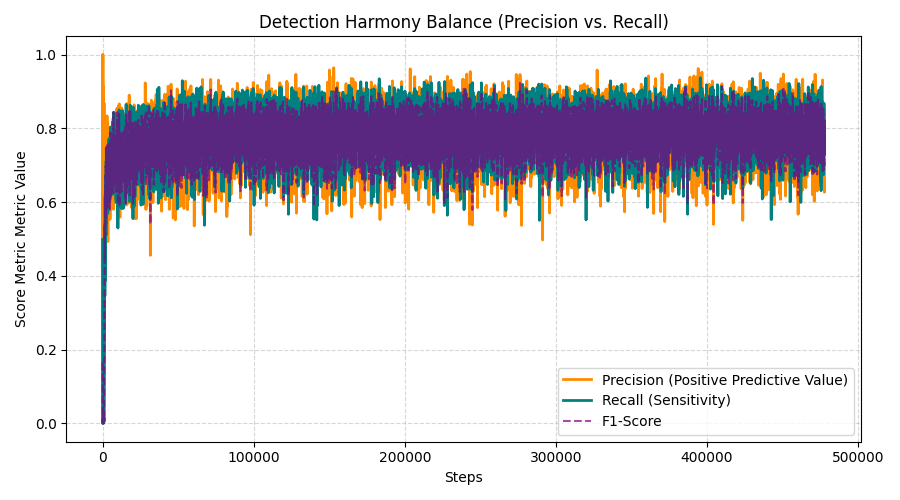
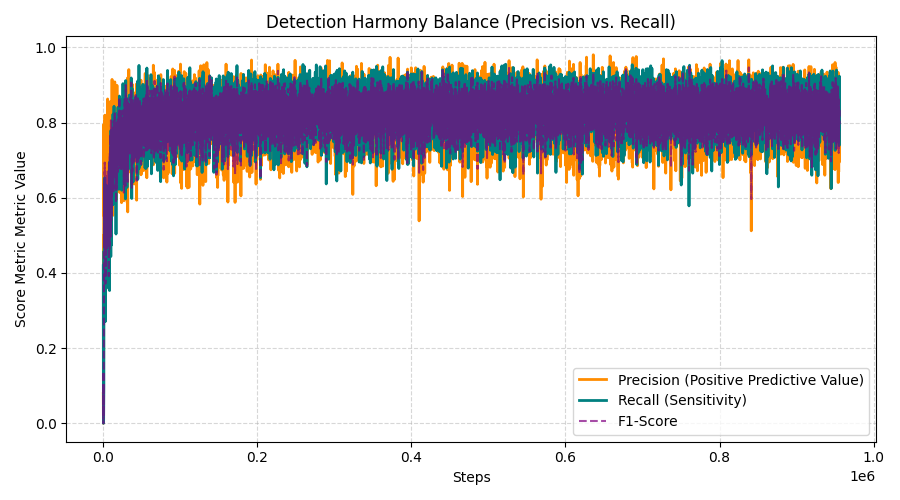
new model for detection

diff --git a/src/detector_evaluation.py b/src/detector_evaluation.py
@@ -1,0 +1,113 @@
+import os
+import json
+import numpy
+import torch
+from libs.dataset_magnetometer import *
+
+
+if __name__ == "__main__":
+
+    dataset_root_path = "/users/michal/datasets/car_detection_2/"
+    #dataset_root_path = "/home/michal/datasets/car_detection_2/"
+    results_path = "./results/rnn_model_detector/"
+    os.makedirs(results_path, exist_ok=True)
+
+    device = "cpu"
+ 
+    dataset = DatasetMagnetometerDetection(dataset_root_path + "Meranie_20_06_01-Lietavska_Lucka/02/")
+
+    num_testing_samples = 1000
+
+    # Detection parameters
+    th = 0.2
+    min_ratio_th = 0.02 # At least 2% of the window must be positive to count as an event
+
+    true_positive  = 0
+    true_negative  = 0
+    false_negative = 0
+    false_positive = 0  
+
+    model = torch.load(results_path + "model_9.pt", weights_only=False, map_location='cpu')
+    model.eval()
+
+    for n in range(num_testing_samples):
+
+        idx = numpy.random.randint(0, len(dataset))
+        x, y_gt = dataset[idx] 
+
+        x_t = torch.from_numpy(x).float().unsqueeze(0).to(device)
+
+        with torch.no_grad():
+            y_pred = model(x_t)
+            y_pred = torch.sigmoid(y_pred)
+            y_pred = y_pred.squeeze(0).detach().cpu().numpy()
+
+        y_gt   = y_gt[:, 0]
+        y_pred = y_pred[:, 0]
+        
+        # Calculate what percentage of the window is above the threshold
+        gt_ratio = numpy.mean(y_gt > th)
+        pred_ratio = numpy.mean(y_pred > th)    
+
+        # Event is present in time window (Outlier-resistant)
+        if gt_ratio >= min_ratio_th:
+            # detector positive answer
+            if pred_ratio >= min_ratio_th:
+                true_positive += 1
+            # detector negative answer
+            else:
+                false_negative += 1
+        # event is not present in time window
+        else:
+            # detector find non existing event
+            if pred_ratio >= min_ratio_th:
+                false_positive += 1
+            else:
+                true_negative += 1
+
+        if (n % 100) == 0:
+            print(f"eval done {round(100 * n / num_testing_samples, 2)} %")
+
+    total_samples = true_positive + true_negative + false_negative + false_positive
+
+    # Calculate full evaluation metrics safely
+    accuracy = (true_positive + true_negative) / total_samples if total_samples > 0 else 0.0
+    precision = true_positive / (true_positive + false_positive) if (true_positive + false_positive) > 0 else 0.0
+    recall = true_positive / (true_positive + false_negative) if (true_positive + false_negative) > 0 else 0.0
+    specificity = true_negative / (true_negative + false_positive) if (true_negative + false_positive) > 0 else 0.0
+    f1_score = 2 * (precision * recall) / (precision + recall) if (precision + recall) > 0 else 0.0
+
+    # Structure final results into JSON format
+    metrics_json = {
+        "dataset_info": {
+            "dataset_path": dataset_root_path,
+            "total_samples_evaluated": total_samples
+        },
+        "hyperparameters": {
+            "detection_threshold": th,
+            "min_window_ratio_threshold": min_ratio_th
+        },
+        "confusion_matrix": {
+            "true_positive": true_positive,
+            "true_negative": true_negative,
+            "false_positive": false_positive,
+            "false_negative": false_negative
+        },
+        "metrics": {
+            "accuracy": round(accuracy, 4),
+            "precision": round(precision, 4),
+            "recall_sensitivity": round(recall, 4),
+            "specificity": round(specificity, 4),
+            "f1_score": round(f1_score, 4)
+        }
+    }
+
+    # Print to console as pretty JSON string
+    print("\n--- Evaluation Metrics Report ---")
+    print(json.dumps(metrics_json, indent=4))
+
+    # Save metrics JSON file
+    output_file = os.path.join(results_path, "evaluation_metrics.json")
+    with open(output_file, 'w') as f:
+        json.dump(metrics_json, f, indent=4)
+    print(f"\nMetrics successfully saved to: {output_file}")

diff --git a/src/libs/magnetometer_augmentation.py b/src/libs/magnetometer_augmentation.py
@@ -6,38 +6,40 @@ class MagnetometerAugmentation:
     def __init__(self):
         pass
 
-    def __call__(self, x, y):
+    def __call__(self, x, y, p_aug = 0.2):
+
+        x = numpy.array(x)
 
         # amplitude scaling
-        if numpy.random.rand() < 0.5:
+        if numpy.random.rand() < p_aug:
             x[:, 0]*= numpy.random.uniform(0.25, 2.0)
 
-        if numpy.random.rand() < 0.5:
+        if numpy.random.rand() < p_aug:
             x[:, 1]*= numpy.random.uniform(0.25, 2.0)
         
-        if numpy.random.rand() < 0.5:
+        if numpy.random.rand() < p_aug:
             x[:, 2]*= numpy.random.uniform(0.25, 2.0)
 
         # add noise
-        if numpy.random.rand() < 0.5:
+        if numpy.random.rand() < p_aug:
             x+= 0.1*numpy.random.randn(x.shape[0], x.shape[1])
 
         # random offset
-        if numpy.random.rand() < 0.5:   
+        if numpy.random.rand() < p_aug:   
             x+= 0.5*numpy.random.randn(1, x.shape[1])
 
         # axis flip
-        if numpy.random.rand() < 0.5:
+        if numpy.random.rand() < p_aug:
             x[:, 0]*= -1
 
-        if numpy.random.rand() < 0.5:
-            x[:, 1]*= -1
+        if numpy.random.rand() < p_aug:
+            x[:, 1]*= -1    
         
-        if numpy.random.rand() < 0.5:
+        if numpy.random.rand() < p_aug:
             x[:, 2]*= -1
 
         # sensor rotate
-        if numpy.random.rand() < 0.5:
+        if numpy.random.rand() < p_aug:
             perm = numpy.random.permutation(3)
             x = x[:, perm]  
 

diff --git a/src/model.py b/src/model.py
@@ -2,12 +2,15 @@ import torch
 
 '''
     RNN seq2seq model
-    x.shape = (batch, seq_length, num_inputs)
-    y.shape = (batch, seq_length, num_outputs)
+    x.shape     = (batch, seq_length, num_inputs)
+    y.shape     = (batch, seq_length, num_outputs)
+    h_0.shape   = (1, batch, num_hidden), optional initial hidden state
 '''
 class RnnModelDetector(torch.nn.Module):
     def __init__(self, num_inputs, num_outputs, num_hidden):
         super(RnnModelDetector, self).__init__()
+
+        self.num_hidden = num_hidden
 
         self.rnn    = torch.nn.GRU(num_inputs, num_hidden, batch_first=True)
         self.fc     = torch.nn.Linear(num_hidden, num_outputs)  
@@ -21,8 +24,8 @@ class RnnModelDetector(torch.nn.Module):
         torch.nn.init.orthogonal_(self.fc.weight, gain=0.01)
         torch.nn.init.zeros_(self.fc.bias)
 
-    def forward(self, x):
-        rnn_output, hidden = self.rnn(x)  
+    def forward(self, x, h_0=None):
+        rnn_output, hidden = self.rnn(x, h_0)  
 
         output = self.fc(rnn_output)
         return output

diff --git a/src/train_detector.py b/src/train_detector.py
@@ -26,10 +26,10 @@ class RNNDetectorConfig:
         self.learning_rate = 0.001
         self.batch_size    = 128
 
-        self.num_epoch     = 5
+        self.num_epoch     = 10 
         self.num_steps     = (self.num_epoch*len(self.training_dataset))//self.batch_size
 
-        self.num_testing_samples = 10000
+        self.num_testing_samples = 10000       
 
         self.model = RnnModelDetector(3, 1, 32) 
         self.model.to(self.device)  
@@ -84,5 +84,8 @@ if __name__ == "__main__":
 
     config = RNNDetectorConfig()
 
-    pipeline = AILibs.SegmentationTrainingPipeline(config)
+    pipeline = AILibs.RNNSegmentationTrainingPipeline(config)
     pipeline.run()
+
+
+    

diff --git a/src/libs/dataset_magnetometer.py b/src/libs/dataset_magnetometer.py
@@ -23,7 +23,7 @@ class DatasetMagnetometerBase:
         self.class_labels    = numpy.array(class_label[valid_id], dtype=int)
         self.event_positions = numpy.array(event_position[valid_id], dtype=int)
 
-
+            
         #load raw magnetic field data
         x = numpy.transpose(data)[6]
         y = numpy.transpose(data)[7]

diff --git a/src/results/rnn_model_detector/summary_report.md b/src/results/rnn_model_detector/summary_report.md
@@ -1,11 +1,11 @@
 # Comprehensive Binary Detection Summary Performance Report
 
 ## 1. Production Training Analysis
-- **Total System Evaluation Steps**: 477802
-- **Final Optimization Step Loss Value**: 0.088493
-- **Final Operational Tracking Accuracy**: 0.95877
-- **Final Detection Core F1-Score**: 0.70662
-- **Final Intersection over Union (IoU)**: 0.54634
+- **Total System Evaluation Steps**: 955605
+- **Final Optimization Step Loss Value**: 0.099889
+- **Final Operational Tracking Accuracy**: 0.96973
+- **Final Detection Core F1-Score**: 0.83297
+- **Final Intersection over Union (IoU)**: 0.71375
 
 ### Training Progress Graphics
 #### Loss & Basic Accuracy Curves
@@ -19,14 +19,14 @@
 | Target Benchmark Domain Metric Field | Evaluated Metric Output Score |
 | :--- | :---: |
 | **Total Processed Test Instance Volumes** | 10,000 |
-| **Global Boundary Binary Classification Accuracy** | 0.95534 |
-| **Dice / F1 Evaluation Target Score Vector** | 0.85363 |
-| **Intersection over Union (IoU) Detection Index** | 0.74464 |
-| **Precision Index Performance** | 0.87331 |
-| **Recall / True Positive Sensitivity Rate** | 0.83482 |
-| **Specificity Index Value** | 0.97761 |
-| **Balanced Accuracy Score Equation Average** | 0.90622 |
-| **Matthews Correlation Coefficient (MCC)** | 998.06126 |
+| **Global Boundary Binary Classification Accuracy** | 0.96423 |
+| **Dice / F1 Evaluation Target Score Vector** | 0.88357 |
+| **Intersection over Union (IoU) Detection Index** | 0.79142 |
+| **Precision Index Performance** | 0.88661 |
+| **Recall / True Positive Sensitivity Rate** | 0.88054 |
+| **Specificity Index Value** | 0.97948 |
+| **Balanced Accuracy Score Equation Average** | 0.93001 |
+| **Matthews Correlation Coefficient (MCC)** | 4285.54021 |
 
 
 ### Prediction Calibration & Score Distribution View Profiles
@@ -35,14 +35,14 @@
 ### Binary Confusion Matrix Counts Structure
 | True Positive (TP) | True Negative (TN) | False Positive (FP) | False Negative (FN) | Decision Boundary |
 | :---: | :---: | :---: | :---: | :---: |
-| 666,831 | 4,224,490 | 96,738 | 131,941 | Threshold @ 0.5 |
+| 694,990 | 4,241,843 | 88,879 | 94,288 | Threshold @ 0.5 |
 
 
 ### Batch Realtime Latency Execution Benchmarks
 | Operational Percentile Slice | Sample Delay Profile Duration |
 | :--- | :---: |
-| **Average Inference Mean Delay** | 0.000116 sec |
-| **Standard Deviation Profile Distribution Variance** | 0.000009 sec |
-| **95th Percentile Execution Window Limit (P95)** | 0.000124 sec |
-| **Worst-Case System Latency Peak Outlier (Max)** | 0.000612 sec |
+| **Average Inference Mean Delay** | 0.000130 sec |
+| **Standard Deviation Profile Distribution Variance** | 0.000043 sec |
+| **95th Percentile Execution Window Limit (P95)** | 0.000160 sec |
+| **Worst-Case System Latency Peak Outlier (Max)** | 0.002447 sec |
 

diff --git a/readme.md b/readme.md
@@ -60,12 +60,9 @@ To ensure the models generalized well to real-world variations (sensor misalignm
 * **Intersection over Union (IoU):** 0.7446
 
 #### Edge Execution Latency Benchmarks
-| Metric / Slice | Inference Duration |
-| :--- | :--- |
-| **Mean Latency** | 116 µs (0.000116 sec) |
-| **Standard Deviation ($\sigma$)** | 9 µs |
-| **95th Percentile (P95)** | 124 µs |
-| **Worst-Case Peak Outlier** | 612 µs |
+
+**TODO**
+
 
 #### Binary Confusion Matrix
 | True Positive (TP) | True Negative (TN) | False Positive (FP) | False Negative (FN) |
@@ -98,11 +95,8 @@ To ensure the models generalized well to real-world variations (sensor misalignm
 | **6: 📦 Other** | 0.96434 | 0.95925 | 0.96179 | 0.97980 |
 
 #### Inference Latency Profile
-| Statistical Slice | Latency |
-| :--- | :--- |
-| **Mean Latency per Sample** | 137 µs (0.000137 sec) |
-| **95th Percentile (P95)** | 143 µs |
-| **Maximum Outlier Peak** | 7.11 ms |
+
+**TODO**
 
 ---
 
